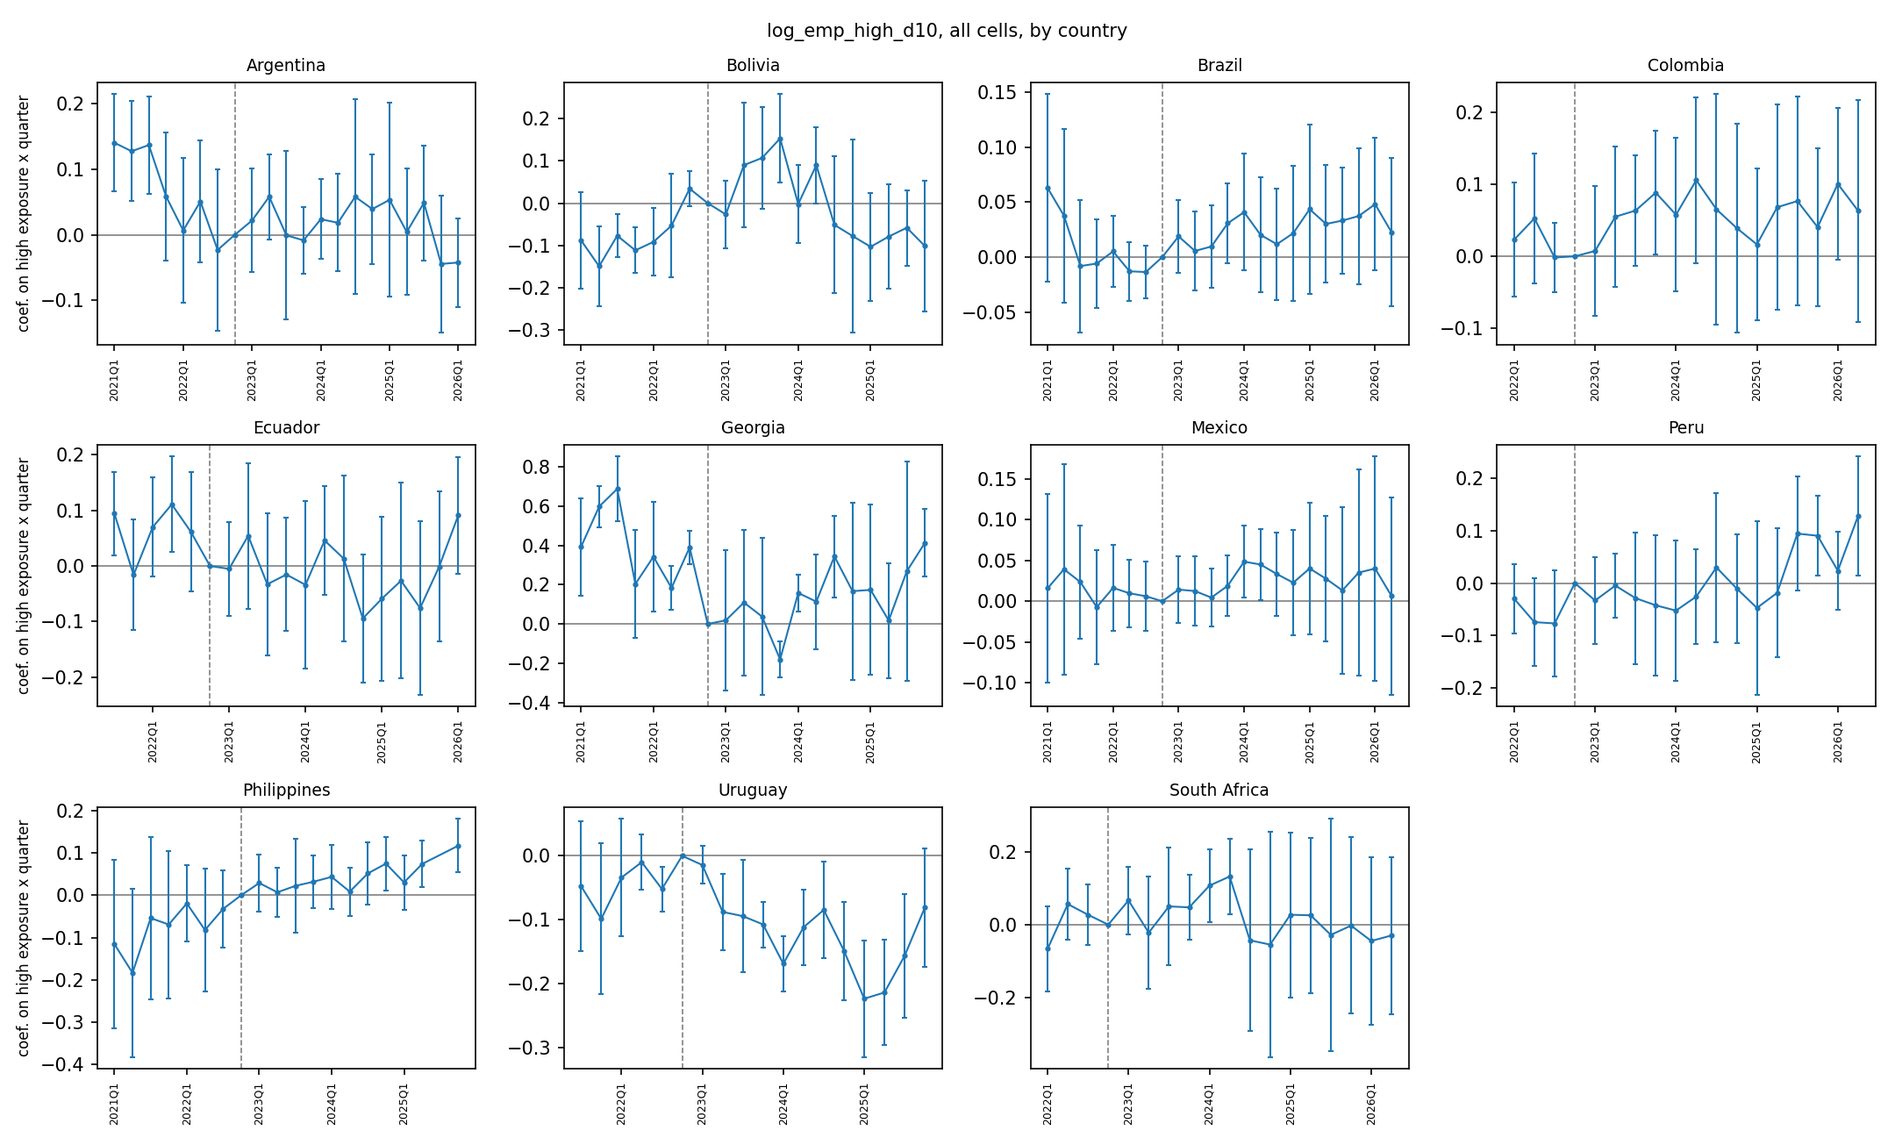
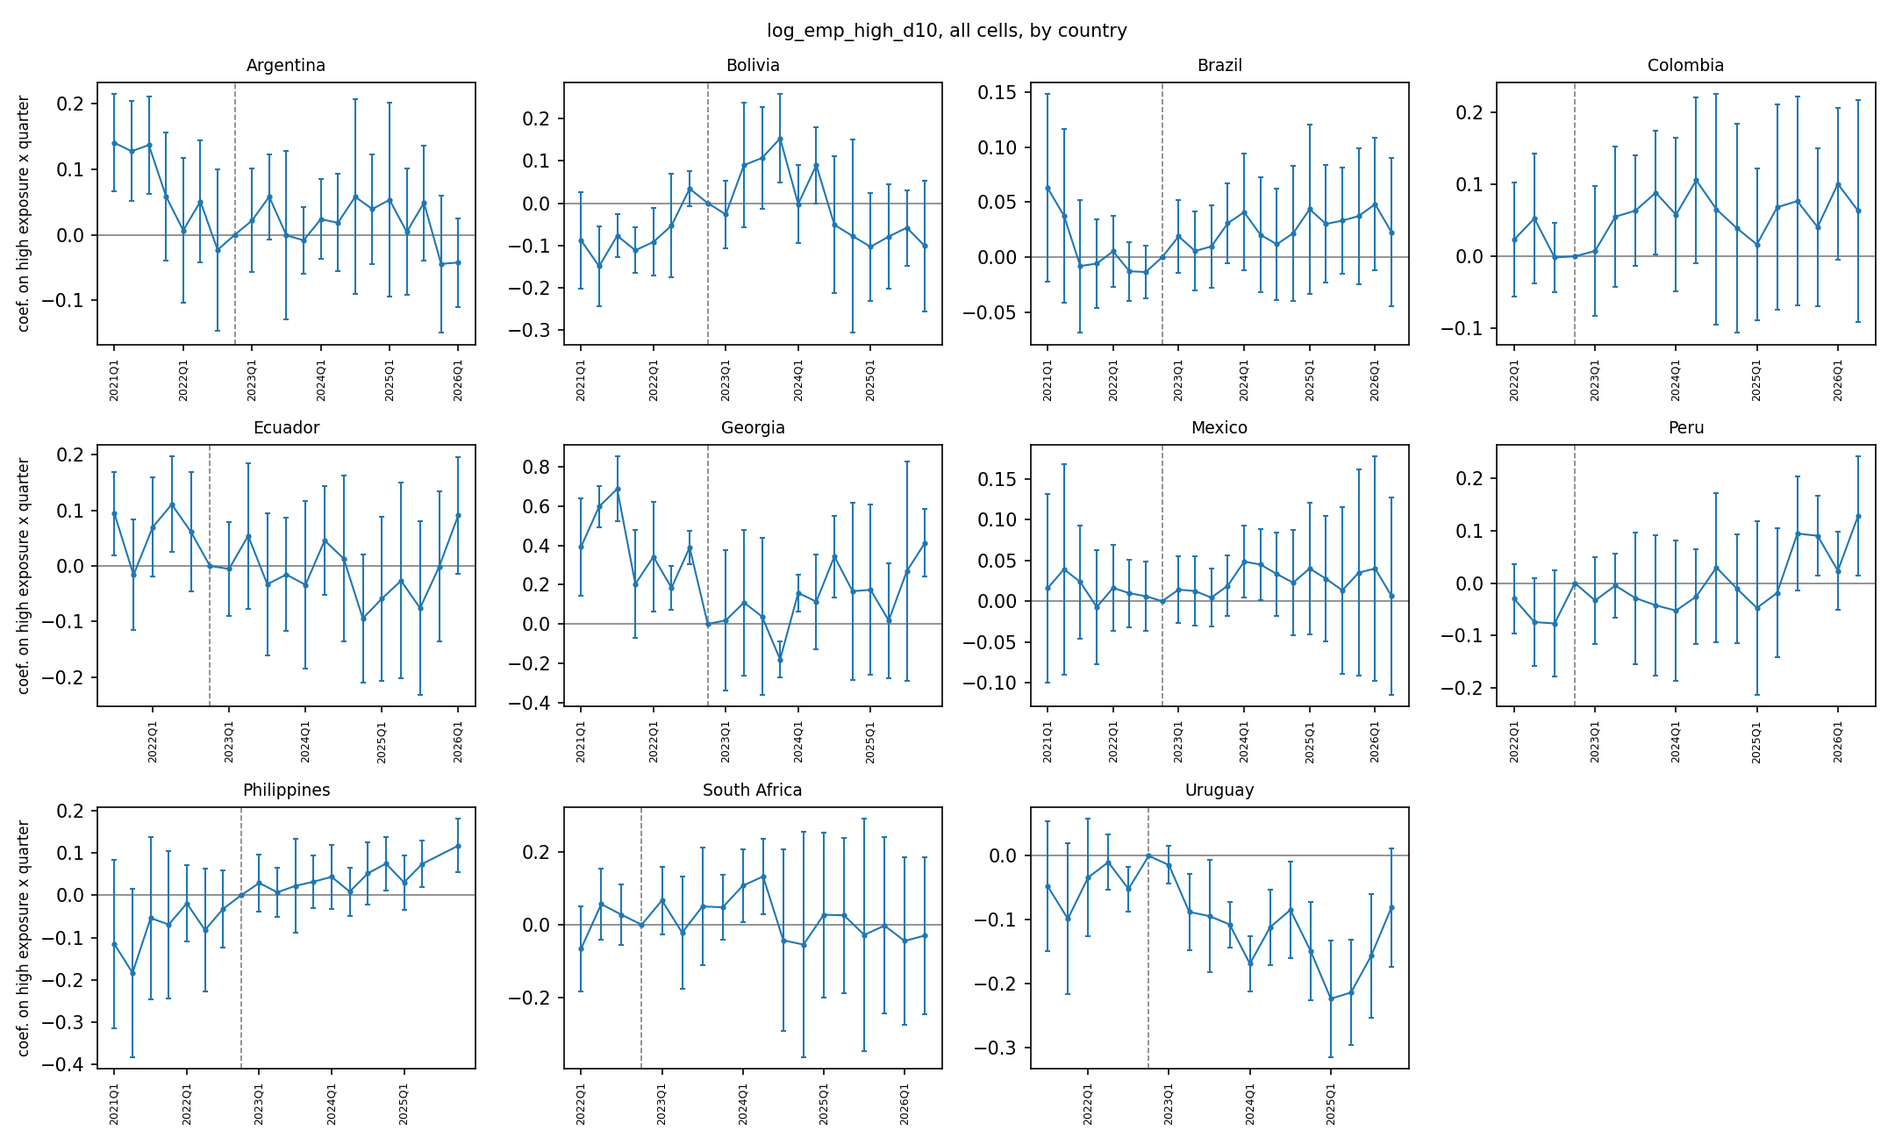
Order countries alphabetically by name in all tables and figure panels

diff --git a/output/latex/tab_surveys.tex b/output/latex/tab_surveys.tex
@@ -10,17 +10,17 @@
 Country & Survey & Quarters & Employed & Min. & Cell & \% at 3+ & Occup. & \% cells & Tenure \\
  &  & (number) & per quarter & age & digits & digits & in cells & under floor &  \\
 \midrule
-Brazil$^{a}$ & PNADC & 2021Q1--2026Q2 (22) & 202\,100 & 14 & 3 & 99 & 124 & 42 & yes \\
-Mexico$^{b}$ & ENOE & 2021Q1--2026Q2 (22) & 186\,700 & 15 & 2 & 61 & 43 & 20 & first int. \\
-Colombia$^{c}$ & GEIH & 2022Q1--2026Q2 (18) & 91\,000 & 15 & 3 & 100 & 130 & 57 & yes \\
-Argentina$^{d}$ & EPH & 2021Q1--2026Q1 (21) & 20\,700 & 10 & 2 & 0 & 40 & 62 & yes \\
+Argentina$^{a}$ & EPH & 2021Q1--2026Q1 (21) & 20\,700 & 10 & 2 & 0 & 40 & 62 & yes \\
+Bolivia$^{b}$ & ECE & 2021Q1--2025Q4 (20) & 27\,700 & 14 & 2 & 73 & 43 & 58 & no \\
+Brazil$^{c}$ & PNADC & 2021Q1--2026Q2 (22) & 202\,100 & 14 & 3 & 99 & 124 & 42 & yes \\
+Colombia$^{d}$ & GEIH & 2022Q1--2026Q2 (18) & 91\,000 & 15 & 3 & 100 & 130 & 57 & yes \\
 Ecuador & ENEMDU & 2021Q3--2026Q1 (19) & 41\,700 & 15 & 3 & 100 & 130 & 72 & yes \\
-Peru$^{e}$ & EPEN & 2022Q1--2026Q2 (18) & 48\,400 & 14 & 3 & 95 & 117 & 70 & no \\
-Uruguay$^{f}$ & ECH & 2021Q3--2025Q4 (18) & 31\,100 & 14 & 3 & 100 & 126 & 73 & first int. \\
-Bolivia$^{g}$ & ECE & 2021Q1--2025Q4 (20) & 27\,700 & 14 & 2 & 73 & 43 & 58 & no \\
-South Africa$^{h}$ & QLFS & 2022Q1--2026Q2 (18) & 15\,600 & 15 & 3 & 94 & 118 & 85 & yes \\
-Georgia$^{i}$ & LFS & 2021Q1--2025Q4 (20) & 6\,600 & 15 & 3 & 100 & 127 & 92 & no \\
-Philippines$^{j}$ & LFS & 2021Q1--2025Q4 (19) & 122\,700 & 15 & 2 & 0 & 43 & 35 & no \\
+Georgia$^{e}$ & LFS & 2021Q1--2025Q4 (20) & 6\,600 & 15 & 3 & 100 & 127 & 92 & no \\
+Mexico$^{f}$ & ENOE & 2021Q1--2026Q2 (22) & 186\,700 & 15 & 2 & 61 & 43 & 20 & first int. \\
+Peru$^{g}$ & EPEN & 2022Q1--2026Q2 (18) & 48\,400 & 14 & 3 & 95 & 117 & 70 & no \\
+Philippines$^{h}$ & LFS & 2021Q1--2025Q4 (19) & 122\,700 & 15 & 2 & 0 & 43 & 35 & no \\
+South Africa$^{i}$ & QLFS & 2022Q1--2026Q2 (18) & 15\,600 & 15 & 3 & 94 & 118 & 85 & yes \\
+Uruguay$^{j}$ & ECH & 2021Q3--2025Q4 (18) & 31\,100 & 14 & 3 & 100 & 126 & 73 & first int. \\
 \midrule
 India$^{k}$ & PLFS & 2021Q1--2025Q4 (20) & 71\,500 & 15 & 3 & 99 & 127 & 76 & no \\
 Nigeria$^{l}$ & NLFS & 2024Q1--2025Q2 (5) & 18\,900 & 15 & 3 & 98 & 130 & 86 & partial \\
@@ -29,16 +29,16 @@ Nigeria$^{l}$ & NLFS & 2024Q1--2025Q2 (5) & 18\,900 & 15 & 3 & 98 & 130 & 86 & p
 \begin{tablenotes}[flushleft]
 \footnotesize
 \item \textit{Notes:} Quarters gives the first and last quarter in the panel and, in parentheses, the number of quarters. PNADC is Brazil's Pesquisa Nacional por Amostra de Domic\'ilios Cont\'inua. Employed per quarter is the unweighted count of employed persons in the harmonised file, rounded to hundreds. Cell digits is the ISCO-08 level of the analysis cells (three where at least 90 percent of employment resolves to three digits, else two); \% at 3+ digits is the employment-weighted share of workers whose occupation code resolves to three or more digits. Occupations in cells and the share of cells under the 30-observation floor refer to the baseline year 2022. Tenure says whether the survey asks job tenure, which defines the new-hire share. India and Nigeria are outside the pooled estimates.
-\item $^{a}$ Reweighted in August 2025 to the 2022 Census; one vintage kept.
-\item $^{b}$ SINCO crosswalk reliable at two digits; tenure asked in first-interview quarters only.
-\item $^{c}$ Starts at the 2022 redesign, so no 2021 pre-period.
-\item $^{d}$ 31 urban agglomerations only; CNO 2017 crosswalk reliable at two digits.
-\item $^{e}$ No tenure question; national file.
-\item $^{f}$ Person-months (weight divided by three); tenure for first interviews only.
-\item $^{g}$ COB 2009 follows ISCO in its first four digits; a quarter of codes stop at two.
-\item $^{h}$ SASCO mapped through ISCO-88; the employment status question changed in 2025Q3.
-\item $^{i}$ Small survey; 92 percent of three-digit cells fall under the floor.
-\item $^{j}$ PSOC published at two digits; expanded rounds alternate with regular rounds; 2025Q3 missing.
+\item $^{a}$ 31 urban agglomerations only; CNO 2017 crosswalk reliable at two digits.
+\item $^{b}$ COB 2009 follows ISCO in its first four digits; a quarter of codes stop at two.
+\item $^{c}$ Reweighted in August 2025 to the 2022 Census; one vintage kept.
+\item $^{d}$ Starts at the 2022 redesign, so no 2021 pre-period.
+\item $^{e}$ Small survey; 92 percent of three-digit cells fall under the floor.
+\item $^{f}$ SINCO crosswalk reliable at two digits; tenure asked in first-interview quarters only.
+\item $^{g}$ No tenure question; national file.
+\item $^{h}$ PSOC published at two digits; expanded rounds alternate with regular rounds; 2025Q3 missing.
+\item $^{i}$ SASCO mapped through ISCO-88; the employment status question changed in 2025Q3.
+\item $^{j}$ Person-months (weight divided by three); tenure for first interviews only.
 \item $^{k}$ Annex only: 2025 redesign; first visits only before 2025Q2; NCO-2004 codes in 2021H1.
 \item $^{l}$ Not in the estimates: no pre-period.
 \end{tablenotes}

diff --git a/output/latex/tab_newhire.tex b/output/latex/tab_newhire.tex
@@ -14,19 +14,19 @@
 \multicolumn{5}{@{}l}{\textit{Pooled, 7 countries with a tenure question}} \\
 Post $\times$ High exposure ($\delta$) & $-0.0072^{***}$ $(0.0024)$ & 21.9 & 40\,154 & 485 \\
 \addlinespace
-\multicolumn{5}{@{}l}{\textit{By country, sorted by $\delta$}} \\
-South Africa & $0.0086$ $(0.0081)$ & 17.7 & 1\,836 & 46 \\
+\multicolumn{5}{@{}l}{\textit{By country}} \\
+Argentina & $0.0018$ $(0.0046)$ & 15.9 & 2\,835 & 31 \\
+Brazil & $-0.0111^{***}$ $(0.0032)$ & 24.0 & 14\,960 & 111 \\
+Colombia & $-0.0074$ $(0.0062)$ & 25.9 & 8\,892 & 101 \\
 Ecuador & $0.0075^{**}$ $(0.0037)$ & 8.3 & 5\,415 & 82 \\
 Mexico & $0.0024$ $(0.0071)$ & 17.9 & 1\,932 & 39 \\
-Argentina & $0.0018$ $(0.0046)$ & 15.9 & 2\,835 & 31 \\
-Colombia & $-0.0074$ $(0.0062)$ & 25.9 & 8\,892 & 101 \\
-Brazil & $-0.0111^{***}$ $(0.0032)$ & 24.0 & 14\,960 & 111 \\
+South Africa & $0.0086$ $(0.0081)$ & 17.7 & 1\,836 & 46 \\
 Uruguay & $-0.0131^{*}$ $(0.0074)$ & 13.9 & 4\,284 & 75 \\
 \bottomrule
 \end{tabular}
 \begin{tablenotes}[flushleft]
 \footnotesize
-\item \textit{Notes:} Difference in differences on the cell's new-hire share, the weighted fraction of its employed persons who started their current job within the previous twelve months, in share points (multiply by 100 for percentage points): $s_{it} = \delta\,\text{Post}_t \times \text{High}_{o} + \alpha_i + \gamma_{c,a,s,t} + \varepsilon_{it}$, where High marks occupations in the top employment-weighted quintile of the ILO generative-AI exposure score at the country's ISCO digit level. Post $=1$ from 2023Q1 onward (reference 2022Q4). Cell fixed effects and country $\times$ age group $\times$ sex $\times$ quarter fixed effects; weights are mean 2022 cell employment. Sample: Brazil, Mexico, Colombia, Argentina, Ecuador, Uruguay, South Africa, the countries whose survey asks job tenure; Uruguay asks it at first interviews only and Mexico in first-interview quarters only, so their shares rest on part of each cell. Country rows re-estimate the model within the country. New-hire share 2022 is the employment-weighted mean of the outcome over the sample's 2022 cell-quarters. Standard errors in parentheses, clustered by country $\times$ occupation; $^{*}$ $p<0.10$, $^{**}$ $p<0.05$, $^{***}$ $p<0.01$ from the cluster-robust $t$ statistic with $G-1$ degrees of freedom.
+\item \textit{Notes:} Difference in differences on the cell's new-hire share, the weighted fraction of its employed persons who started their current job within the previous twelve months, in share points (multiply by 100 for percentage points): $s_{it} = \delta\,\text{Post}_t \times \text{High}_{o} + \alpha_i + \gamma_{c,a,s,t} + \varepsilon_{it}$, where High marks occupations in the top employment-weighted quintile of the ILO generative-AI exposure score at the country's ISCO digit level. Post $=1$ from 2023Q1 onward (reference 2022Q4). Cell fixed effects and country $\times$ age group $\times$ sex $\times$ quarter fixed effects; weights are mean 2022 cell employment. Sample: Argentina, Brazil, Colombia, Ecuador, Mexico, South Africa, Uruguay, the countries whose survey asks job tenure; Uruguay asks it at first interviews only and Mexico in first-interview quarters only, so their shares rest on part of each cell. Country rows re-estimate the model within the country. New-hire share 2022 is the employment-weighted mean of the outcome over the sample's 2022 cell-quarters. Standard errors in parentheses, clustered by country $\times$ occupation; $^{*}$ $p<0.10$, $^{**}$ $p<0.05$, $^{***}$ $p<0.01$ from the cluster-robust $t$ statistic with $G-1$ degrees of freedom.
 \end{tablenotes}
 \end{threeparttable}
 \end{table}

diff --git a/output/latex/tab_country.tex b/output/latex/tab_country.tex
@@ -16,29 +16,29 @@ Post $\times$ High exposure ($\delta$) & $0.017$ $(0.023)$ & 25.6 & 59\,536 & 65
 Post $\times$ High exposure $\times$ Young ($\theta$) & $-0.004$ $(0.018)$ &  &  &  \\
 Post $\times$ High exposure, young cells ($\delta + \theta$) & $0.012$ $(0.018)$ &  &  &  \\
 \addlinespace
-\multicolumn{5}{@{}l}{\textit{By country, sorted by $\delta$}} \\
-Georgia ($\delta$) & $0.086$ $(0.086)$ & 13.4 & 900 & 25 \\
-\quad young cells ($\delta + \theta$) & n.a. &  &  &  \\
-Philippines ($\delta$) & $0.045$ $(0.113)$ & 29.7 & 5\,510 & 40 \\
-\quad young cells ($\delta + \theta$) & $0.040$ $(0.047)$ &  &  &  \\
-Peru ($\delta$) & $0.034$ $(0.051)$ & 11.8 & 4\,860 & 69 \\
-\quad young cells ($\delta + \theta$) & $0.138^{**}$ $(0.064)$ &  &  &  \\
-South Africa ($\delta$) & $0.033$ $(0.067)$ & 13.9 & 1\,836 & 46 \\
-\quad young cells ($\delta + \theta$) & $0.088$ $(0.111)$ &  &  &  \\
-Mexico ($\delta$) & $0.021$ $(0.020)$ & 30.3 & 7\,084 & 39 \\
-\quad young cells ($\delta + \theta$) & $0.009$ $(0.027)$ &  &  &  \\
-Brazil ($\delta$) & $0.017$ $(0.023)$ & 25.6 & 14\,960 & 111 \\
-\quad young cells ($\delta + \theta$) & $0.005$ $(0.031)$ &  &  &  \\
+\multicolumn{5}{@{}l}{\textit{By country}} \\
 Argentina ($\delta$) & $-0.002$ $(0.036)$ & 33.8 & 2\,835 & 31 \\
 \quad young cells ($\delta + \theta$) & $0.019$ $(0.054)$ &  &  &  \\
-Colombia ($\delta$) & $-0.030$ $(0.038)$ & 23.5 & 8\,892 & 101 \\
-\quad young cells ($\delta + \theta$) & $-0.022$ $(0.044)$ &  &  &  \\
 Bolivia ($\delta$) & $-0.036$ $(0.035)$ & 20.6 & 2\,960 & 36 \\
 \quad young cells ($\delta + \theta$) & $0.010$ $(0.049)$ &  &  &  \\
-Uruguay ($\delta$) & $-0.052$ $(0.035)$ & 26.2 & 4\,284 & 75 \\
-\quad young cells ($\delta + \theta$) & $-0.046$ $(0.046)$ &  &  &  \\
+Brazil ($\delta$) & $0.017$ $(0.023)$ & 25.6 & 14\,960 & 111 \\
+\quad young cells ($\delta + \theta$) & $0.005$ $(0.031)$ &  &  &  \\
+Colombia ($\delta$) & $-0.030$ $(0.038)$ & 23.5 & 8\,892 & 101 \\
+\quad young cells ($\delta + \theta$) & $-0.022$ $(0.044)$ &  &  &  \\
 Ecuador ($\delta$) & $-0.089^{***}$ $(0.027)$ & 13.6 & 5\,415 & 82 \\
 \quad young cells ($\delta + \theta$) & $-0.198^{***}$ $(0.061)$ &  &  &  \\
+Georgia ($\delta$) & $0.086$ $(0.086)$ & 13.4 & 900 & 25 \\
+\quad young cells ($\delta + \theta$) & n.a. &  &  &  \\
+Mexico ($\delta$) & $0.021$ $(0.020)$ & 30.3 & 7\,084 & 39 \\
+\quad young cells ($\delta + \theta$) & $0.009$ $(0.027)$ &  &  &  \\
+Peru ($\delta$) & $0.034$ $(0.051)$ & 11.8 & 4\,860 & 69 \\
+\quad young cells ($\delta + \theta$) & $0.138^{**}$ $(0.064)$ &  &  &  \\
+Philippines ($\delta$) & $0.045$ $(0.113)$ & 29.7 & 5\,510 & 40 \\
+\quad young cells ($\delta + \theta$) & $0.040$ $(0.047)$ &  &  &  \\
+South Africa ($\delta$) & $0.033$ $(0.067)$ & 13.9 & 1\,836 & 46 \\
+\quad young cells ($\delta + \theta$) & $0.088$ $(0.111)$ &  &  &  \\
+Uruguay ($\delta$) & $-0.052$ $(0.035)$ & 26.2 & 4\,284 & 75 \\
+\quad young cells ($\delta + \theta$) & $-0.046$ $(0.046)$ &  &  &  \\
 \addlinespace
 \multicolumn{5}{@{}l}{\textit{Annex}} \\
 India, 2021Q3--2024Q4 ($\delta$) & $0.200^{***}$ $(0.052)$ & 11.9$^{\dagger}$ & 2\,940 & 67 \\

diff --git a/scripts/48_latex_tables.py b/scripts/48_latex_tables.py
@@ -90,7 +90,8 @@ SURVEY = {
     "IND": "PLFS",
     "NGA": "NLFS",
 }
-POOL = ["BRA", "MEX", "COL", "ARG", "ECU", "PER", "URY", "BOL", "ZAF", "GEO", "PHL"]
+# alphabetical by country name (decided 2 Oct 2026)
+POOL = ["ARG", "BOL", "BRA", "COL", "ECU", "GEO", "MEX", "PER", "PHL", "ZAF", "URY"]
 EXPORTERS = ["BRA", "COL", "PHL"]
 IND_END = "2024Q4"
 NOTE1 = {
@@ -308,9 +309,8 @@ def table_country(est: pd.DataFrame) -> str:
             False,
         )
     )
-    rows.append(panel(r"By country, sorted by $\delta$"))
-    order = sorted(POOL, key=lambda c: -e.loc[f"country_{c}", "coef"])
-    for cc in order:
+    rows.append(panel("By country"))
+    for cc in POOL:
         r = e.loc[f"country_{cc}"]
         rows.append(line(NAMES[cc] + r" ($\delta$)", r, "", True))
         rows.append(
@@ -425,8 +425,8 @@ def table_newhire(est: pd.DataFrame) -> str:
     rows: List[Sequence[str]] = []
     rows.append(panel(f"Pooled, {len(countries)} countries with a tenure question"))
     rows.append(line(r"Post $\times$ High exposure ($\delta$)", e.loc["all"]))
-    rows.append(panel(r"By country, sorted by $\delta$"))
-    for cc in sorted(countries, key=lambda c: -e.loc[f"country_{c}", "coef"]):
+    rows.append(panel("By country"))
+    for cc in countries:
         rows.append(line(NAMES[cc], e.loc[f"country_{cc}"]))
     header = [
         ["", "Coefficient (SE)", "New-hire share", "Cells", "Clusters"],
@@ -717,14 +717,14 @@ FIGURES_SPEC = [
     ),
     dict(
         label="fig:youthshare",
-        caption="IT and business-process services: employment and under-25 share, annual averages (Brazil to Peru)",
+        caption="IT and business-process services: employment and under-25 share, annual averages (Argentina to Georgia)",
         panels=[("itbpo_by_country_p1.png", None)],
         width=r"0.85\textwidth",
         notes=YOUTH_NOTE,
     ),
     dict(
         label="fig:youthshare_b",
-        caption="IT and business-process services: employment and under-25 share, annual averages (Uruguay to India)",
+        caption="IT and business-process services: employment and under-25 share, annual averages (Mexico to Uruguay, and India)",
         panels=[("itbpo_by_country_p2.png", None)],
         width=r"0.85\textwidth",
         notes=YOUTH_NOTE,

diff --git a/output/latex/figures.tex b/output/latex/figures.tex
@@ -38,7 +38,7 @@
 \begin{figure}[htbp]
 \centering
 \includegraphics[width=0.85\textwidth]{\tabfig/itbpo_by_country_p1.png}
-\caption{IT and business-process services: employment and under-25 share, annual averages (Brazil to Peru)}
+\caption{IT and business-process services: employment and under-25 share, annual averages (Argentina to Georgia)}
 \label{fig:youthshare}
 \floatfoot{\footnotesize \textit{Notes:} Sector $=$ ISIC Rev.\ 4 divisions 62 (computer programming and consultancy), 63 (information services) and 82 (office and business support, including call centres); South Africa 62 only; Mexico ENOE code 5611. For each country the upper panel shows employment in the sector, in its clerical and service occupations (ISCO 4 and 5) and in the whole economy, indexed to 2022, and the lower panel the under-25 share of sector employment against the economy-wide share. Annual averages of quarters; the latest year may be partial. Bolivia (290 sector workers in 2022) and Georgia (92) are too small for the share to be reliable.}
 \end{figure}
@@ -46,7 +46,7 @@
 \begin{figure}[htbp]
 \centering
 \includegraphics[width=0.85\textwidth]{\tabfig/itbpo_by_country_p2.png}
-\caption{IT and business-process services: employment and under-25 share, annual averages (Uruguay to India)}
+\caption{IT and business-process services: employment and under-25 share, annual averages (Mexico to Uruguay, and India)}
 \label{fig:youthshare_b}
 \floatfoot{\footnotesize \textit{Notes:} Sector $=$ ISIC Rev.\ 4 divisions 62 (computer programming and consultancy), 63 (information services) and 82 (office and business support, including call centres); South Africa 62 only; Mexico ENOE code 5611. For each country the upper panel shows employment in the sector, in its clerical and service occupations (ISCO 4 and 5) and in the whole economy, indexed to 2022, and the lower panel the under-25 share of sector employment against the economy-wide share. Annual averages of quarters; the latest year may be partial. Bolivia (290 sector workers in 2022) and Georgia (92) are too small for the share to be reliable.}
 \end{figure}

diff --git a/output/latex/tab_robust.tex b/output/latex/tab_robust.tex
@@ -36,28 +36,28 @@ Placebo: 2022 against 2021, pre-period only & $0.001$ & $-0.019$ & 19\,562 & 655
  & $(0.029)$ & $(0.025)$ &  &  \\
 \addlinespace
 \multicolumn{5}{@{}l}{\textit{Panel C. Leaving one country out}} \\
+Without Argentina & $0.018$ & $-0.006$ & 56\,701 & 624 \\
+ & $(0.024)$ & $(0.019)$ &  &  \\
+Without Bolivia & $0.018$ & $-0.005$ & 56\,576 & 619 \\
+ & $(0.023)$ & $(0.019)$ &  &  \\
 Without Brazil & $0.016$ & $0.001$ & 44\,576 & 544 \\
  & $(0.035)$ & $(0.026)$ &  &  \\
-Without Mexico & $0.015$ & $-0.002$ & 52\,452 & 616 \\
- & $(0.029)$ & $(0.023)$ &  &  \\
 Without Colombia & $0.019$ & $-0.006$ & 50\,644 & 554 \\
- & $(0.024)$ & $(0.019)$ &  &  \\
-Without Argentina & $0.018$ & $-0.006$ & 56\,701 & 624 \\
  & $(0.024)$ & $(0.019)$ &  &  \\
 Without Ecuador & $0.018$ & $-0.004$ & 54\,121 & 573 \\
  & $(0.023)$ & $(0.019)$ &  &  \\
-Without Peru & $0.016$ & $-0.007$ & 54\,676 & 586 \\
- & $(0.023)$ & $(0.018)$ &  &  \\
-Without Uruguay & $0.017$ & $-0.005$ & 55\,252 & 580 \\
- & $(0.023)$ & $(0.018)$ &  &  \\
-Without Bolivia & $0.018$ & $-0.005$ & 56\,576 & 619 \\
- & $(0.023)$ & $(0.019)$ &  &  \\
-Without South Africa & $0.016$ & $-0.004$ & 57\,700 & 609 \\
- & $(0.023)$ & $(0.018)$ &  &  \\
 Without Georgia & $0.016$ & $-0.004$ & 58\,636 & 630 \\
+ & $(0.023)$ & $(0.018)$ &  &  \\
+Without Mexico & $0.015$ & $-0.002$ & 52\,452 & 616 \\
+ & $(0.029)$ & $(0.023)$ &  &  \\
+Without Peru & $0.016$ & $-0.007$ & 54\,676 & 586 \\
  & $(0.023)$ & $(0.018)$ &  &  \\
 Without Philippines & $0.011$ & $-0.005$ & 54\,026 & 615 \\
  & $(0.013)$ & $(0.014)$ &  &  \\
+Without South Africa & $0.016$ & $-0.004$ & 57\,700 & 609 \\
+ & $(0.023)$ & $(0.018)$ &  &  \\
+Without Uruguay & $0.017$ & $-0.005$ & 55\,252 & 580 \\
+ & $(0.023)$ & $(0.018)$ &  &  \\
 \bottomrule
 \end{tabular}
 \begin{tablenotes}[flushleft]

diff --git a/scripts/42_figures.py b/scripts/42_figures.py
@@ -45,7 +45,10 @@ def plot_event_study(es: pd.DataFrame, title: str, path) -> None:
 
 def plot_event_study_panel(es: pd.DataFrame, prefix: str, title: str, path) -> None:
     """One panel per country for the subsets named ``<prefix><cc>``."""
-    subs = sorted(s for s in es["subset"].unique() if s.startswith(prefix))
+    subs = sorted(
+        (s for s in es["subset"].unique() if s.startswith(prefix)),
+        key=lambda s: NAMES.get(s[len(prefix) :], s),  # alphabetical by name
+    )
     if not subs:
         return
     ncol = 4
@@ -117,7 +120,7 @@ def plot_index(idx: pd.DataFrame, cc: str, path, label: str = "tercile") -> None
 def plot_index_panel(idx: pd.DataFrame, path, group: str = "group") -> None:
     """One panel per country plus the pooled series, shared y axis."""
     has_data = idx.dropna(subset=["index"])["countrycode"].unique()
-    codes = sorted(c for c in has_data if c != "ALL")
+    codes = sorted((c for c in has_data if c != "ALL"), key=lambda c: NAMES.get(c, c))
     if "ALL" in idx["countrycode"].values:
         codes.append("ALL")
     ncol = 3

diff --git a/scripts/43_itbpo_sector.py b/scripts/43_itbpo_sector.py
@@ -26,18 +26,19 @@ matplotlib.use("Agg")
 import matplotlib.pyplot as plt  # noqa: E402
 
 DB = PROCESSED / "panel.duckdb"
+# alphabetical by country name, India (annex) last
 ORDER = [
+    "ARG",
+    "BOL",
     "BRA",
     "COL",
-    "MEX",
-    "ARG",
     "ECU",
-    "PER",
-    "URY",
-    "BOL",
-    "ZAF",
     "GEO",
+    "MEX",
+    "PER",
     "PHL",
+    "ZAF",
+    "URY",
     "IND",
 ]
 DEFINITION = {
@@ -172,7 +173,7 @@ def plot_split(t: pd.DataFrame, path) -> None:
     plt.close(fig)
 
 
-QUARTERLY = ["BRA", "COL", "PHL", "IND", "URY"]
+QUARTERLY = ["BRA", "COL", "IND", "PHL", "URY"]  # alphabetical by name
 SQL_Q = """
 with e as (
   select countrycode, period, weight, age, occup_isco,

diff --git a/NOTES.md b/NOTES.md
@@ -92,7 +92,9 @@ quarterly and Philippines figures have portrait variants
 the network). Numbering now: Tables 1 surveys, 2 country, 3 newhire,
 4 sector, A1 robust; Figures 1 es_pooled, 2 index, 3 newhire,
 4 newhire_country, 5-6 youthshare, 7 itbpo_quarterly, 8 phl, 9 split,
-10 es_country, 11 india.
+10 es_country, 11 india. Countries are listed alphabetically by name in
+every table and figure panel (POOL in 48, ORDER in 43, NAMES sort in 42);
+India last as the annex.
 Table A1 (treatment cut, continuous score, 2-digit cells, small cells kept,
 urban only, social-security contributors only, 2022-vs-2021 placebo,
 leave-one-out) and Table 4 (sector DiD on country x quarter x industry
